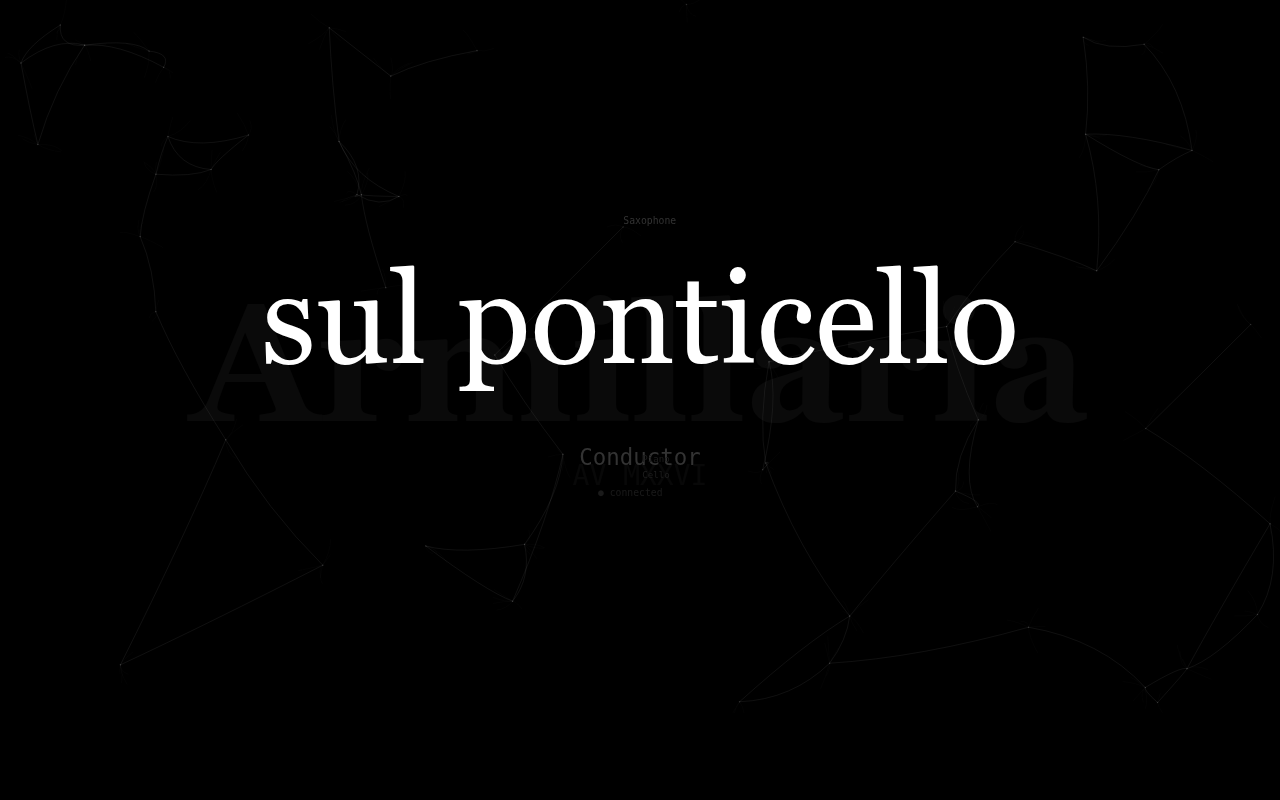
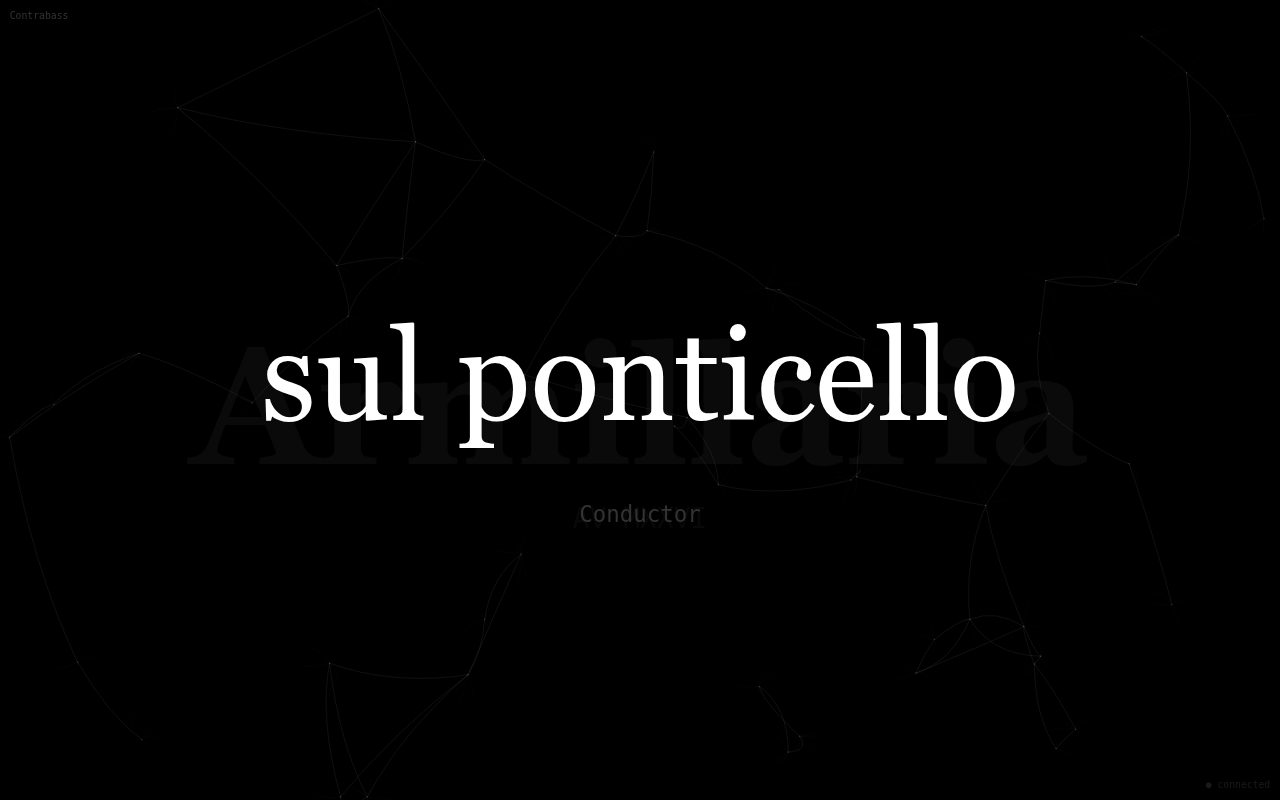
update screenshots: Contrabass, fix sender background
Replace Saxophone with Contrabass in receiver-active and sender-active
screenshots. Lighten sender background from #0a0a0a to #161616 so the
two interfaces are visibly distinct.

Changed region(s): [[0.1875, 0.3125, 0.8125, 0.5625], [0.4688, 0.625, 0.5312, 0.6562], [0.4688, 0.5625, 0.5312, 0.5938]]

diff --git a/sender.html b/sender.html
@@ -9,7 +9,7 @@
     * { margin: 0; padding: 0; box-sizing: border-box; }
 
     body {
-      background: #0a0a0a;
+      background: #161616;
       color: #eee;
       font-family: monospace;
       height: 100vh; height: 100dvh;